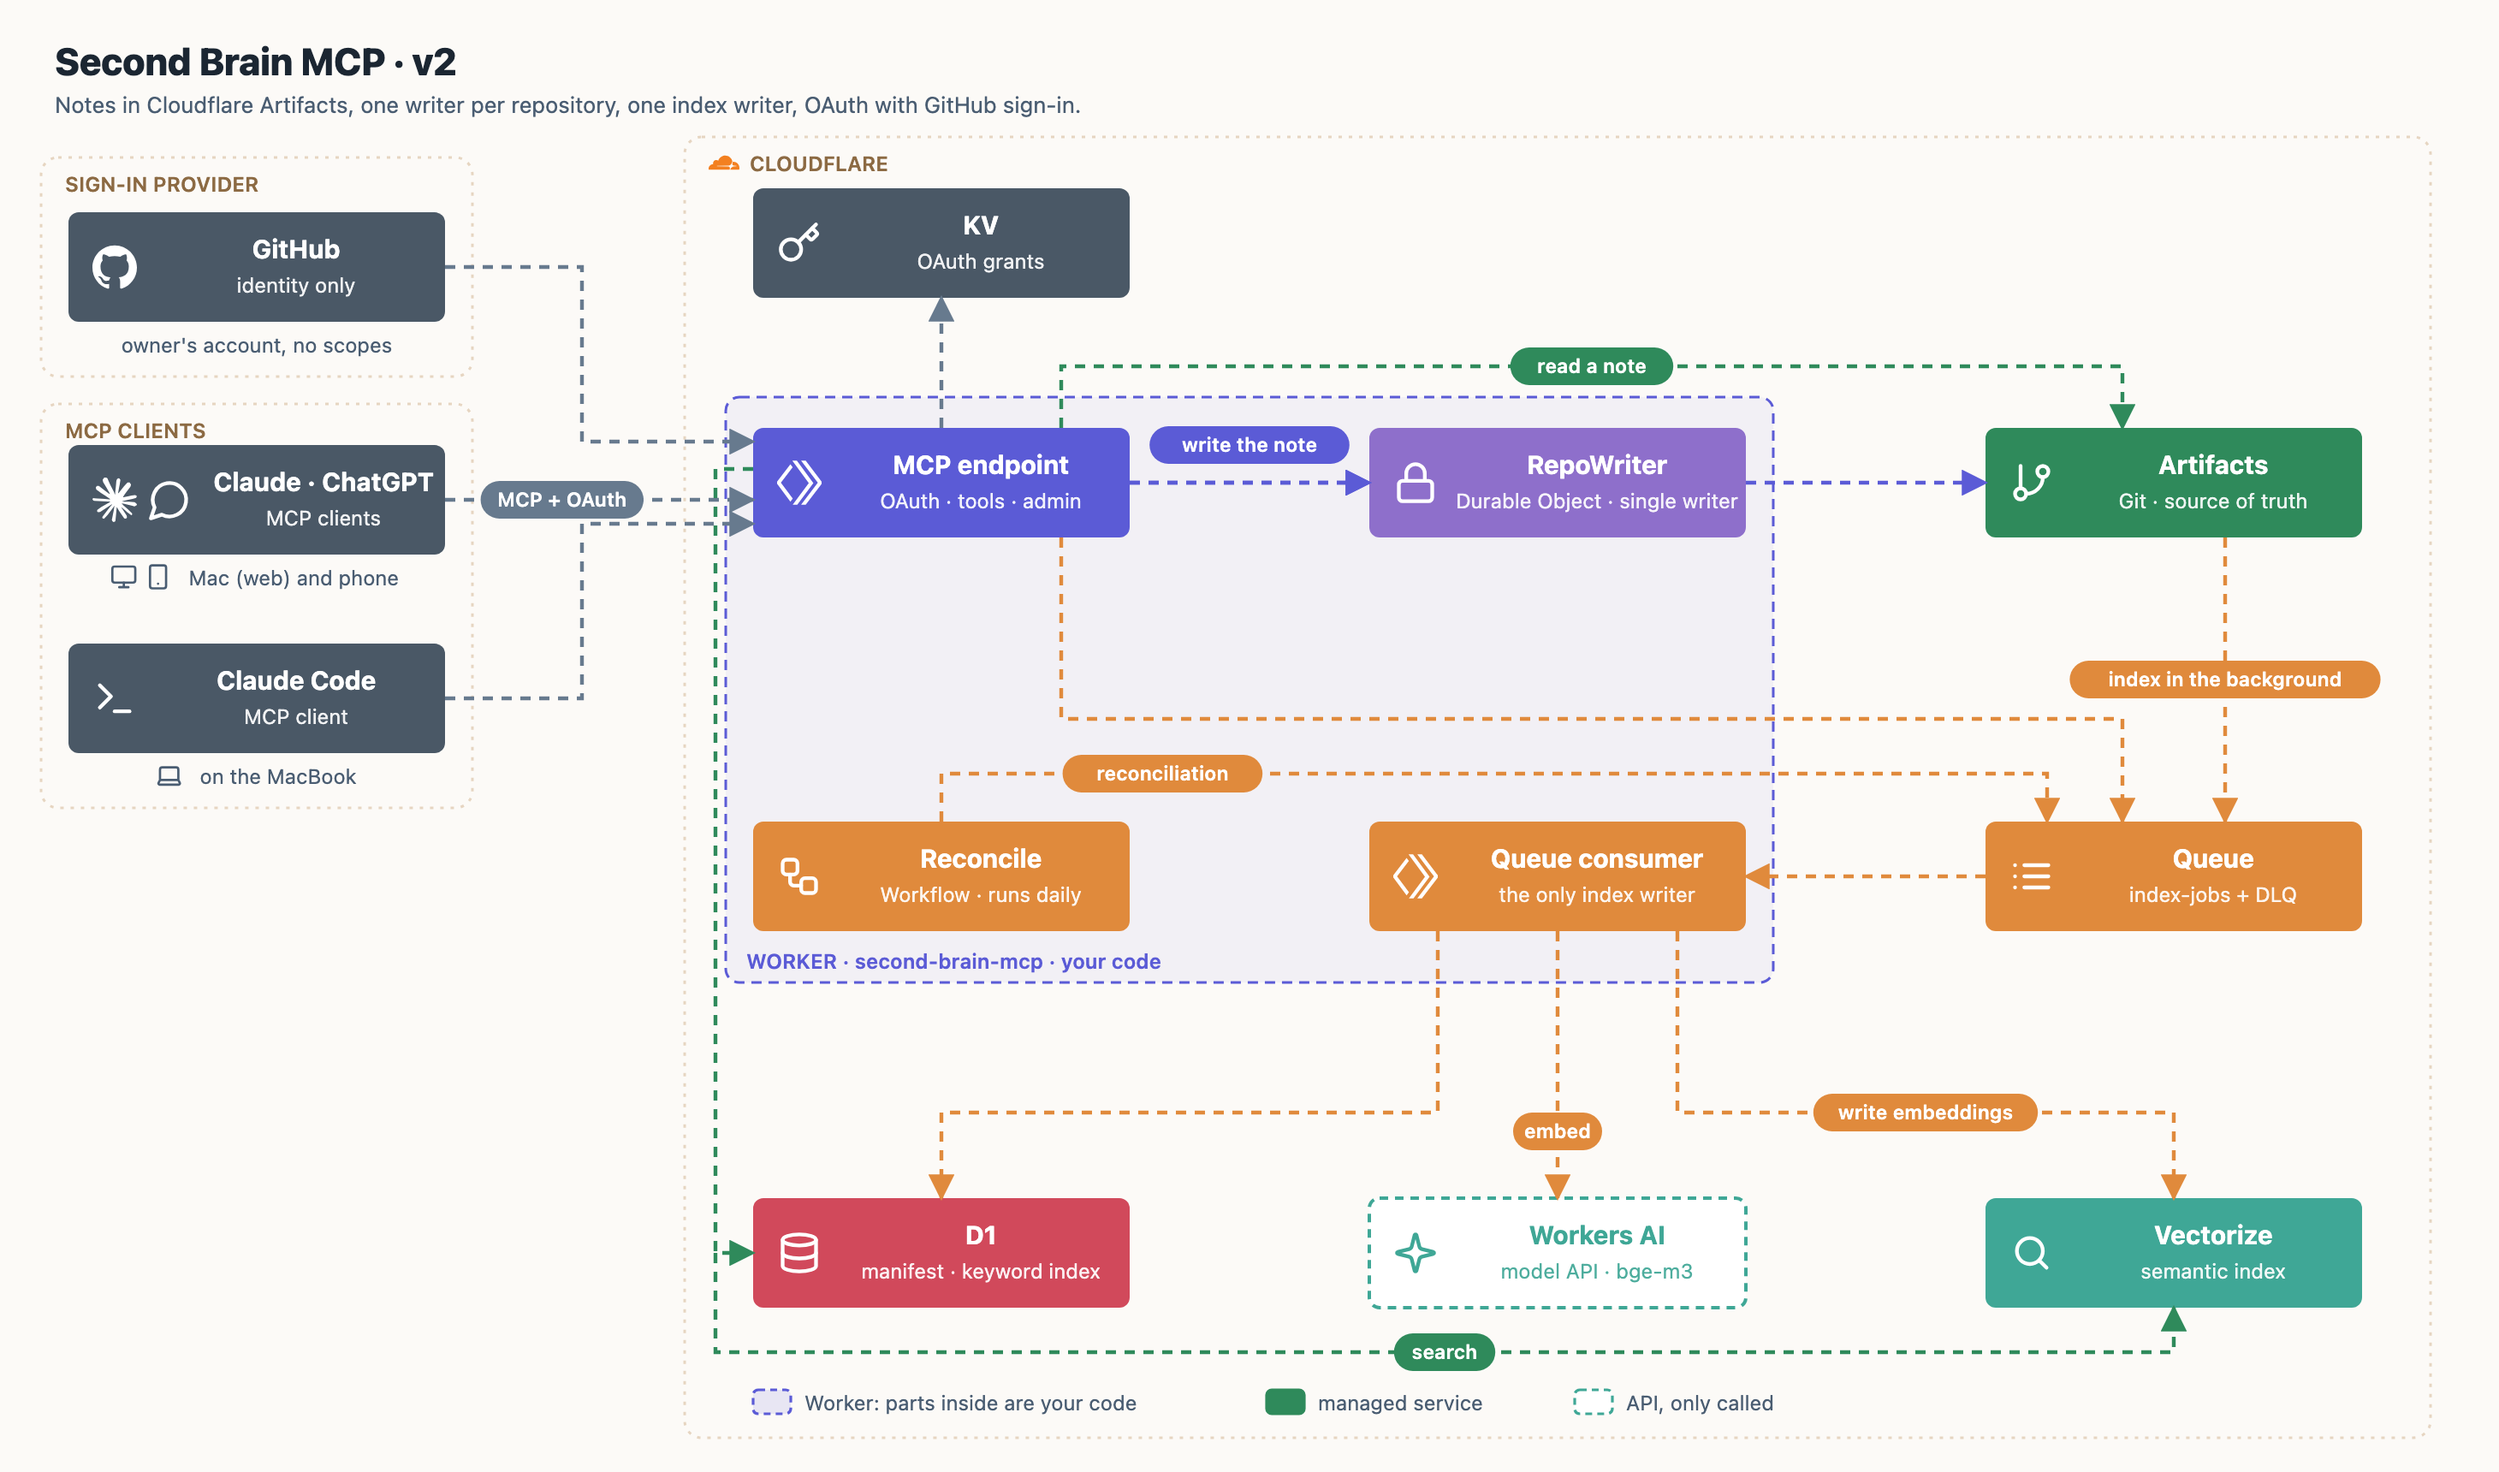
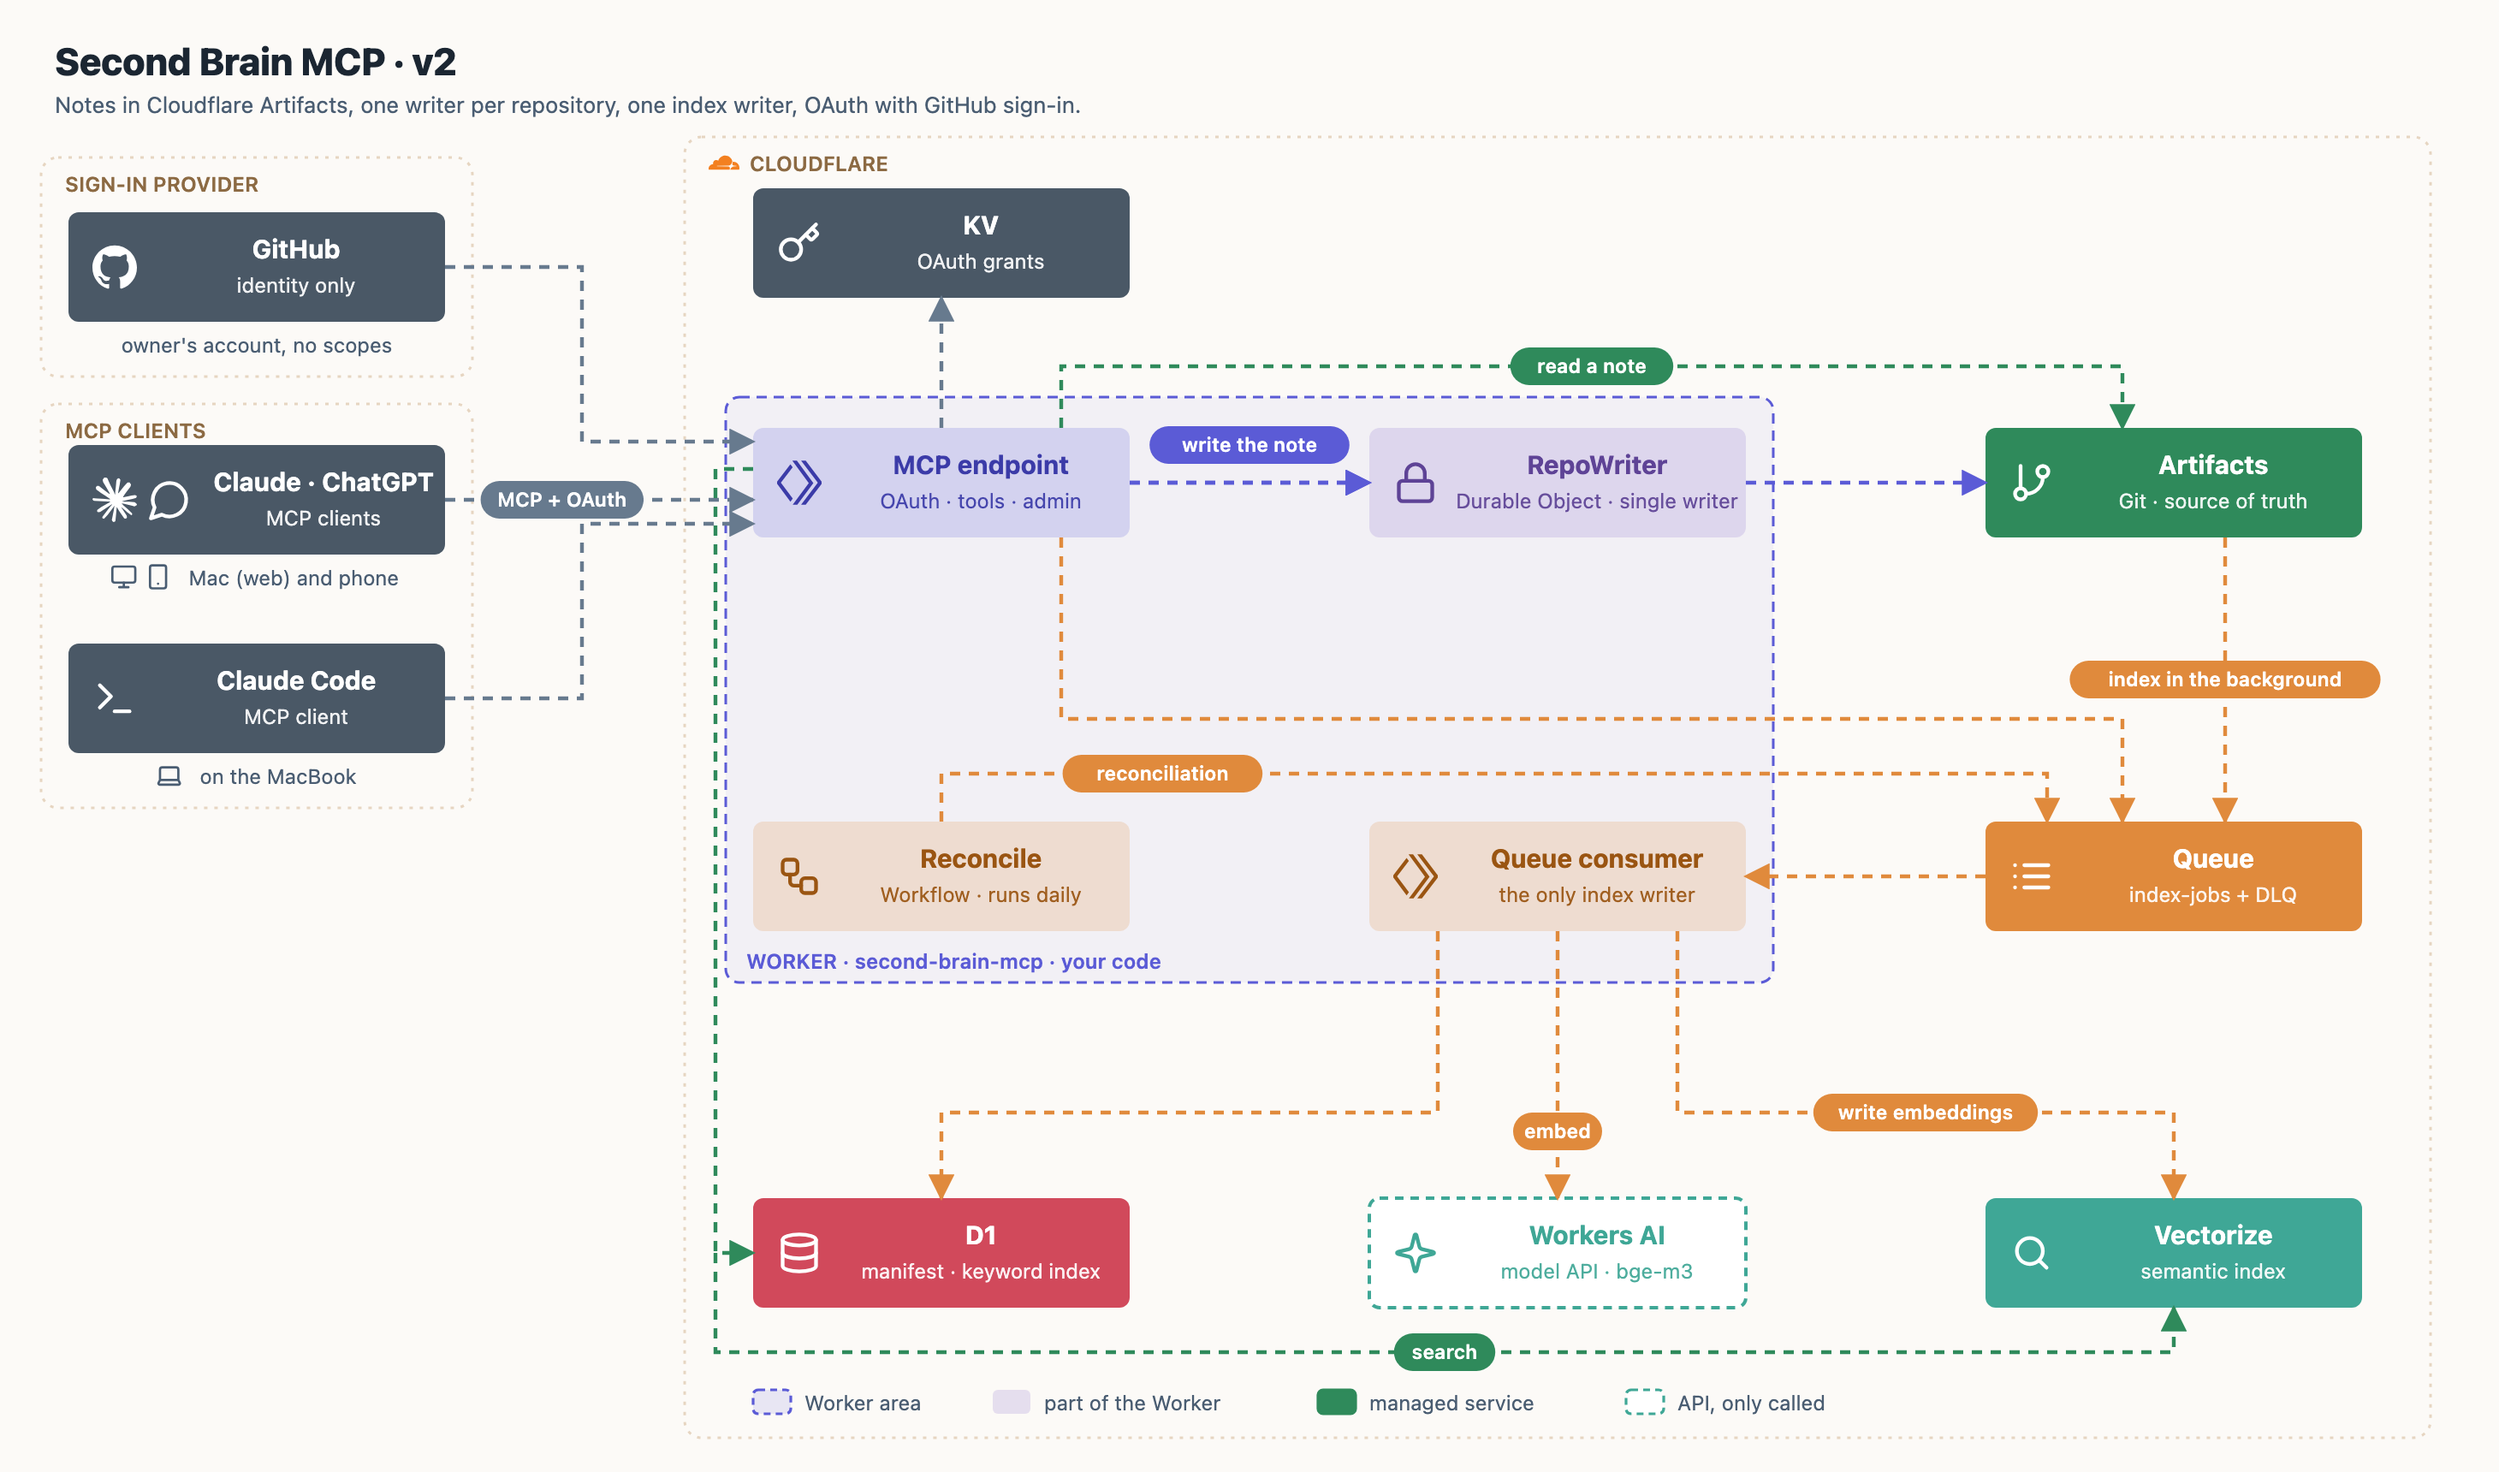
Architecture v2: Worker parts drawn as soft tints, apart from the solid managed services
Claude-Session: https://claude.ai/code/session_0171UdtAm1pRxwuhTFhKDhrM

diff --git a/docs/architecture/draw.py b/docs/architecture/draw.py
@@ -32,16 +32,17 @@ def glyph(name, x, y, size=26, color="#fff"):
     return f'<g transform="translate({x},{y}) scale({k})" fill="none" stroke="{color}" stroke-width="2" stroke-linecap="round" stroke-linejoin="round">{LUCIDE[name]}</g>'
 
 C = dict(indigo="#5B5BD6", purple="#8E6FCB", teal="#3FA796", green="#2F8A5B", red="#D1495B", orange="#E08A3C", slate="#4A5866")
+DARK = dict(indigo="#3B3BA8", purple="#5E4396", teal="#22705F", green="#1F5E3D", red="#9C2C3B", orange="#9A5512", slate="#2E3944")
 NAVY, MUTED, BG, LINE = "#1B2632", "#4A5D72", "#FCFAF7", "#677A8E"
 W, H = 220, 64
 
 def box(x, y, title, sub, color, caption=None, w=W, icons=(), kind="service"):
     """kind: service = managed resource (solid); part = a class inside the Worker (outlined); api = no resource, only called (dashed)."""
-    ink = "#fff" if kind == "service" else C[color]
+    ink = "#fff" if kind == "service" else (DARK[color] if kind == "part" else C[color])
     if kind == "service":
         t = f'<rect x="{x}" y="{y}" width="{w}" height="{H}" rx="6" fill="{C[color]}"/>'
     elif kind == "part":
-        t = f'<rect x="{x}" y="{y}" width="{w}" height="{H}" rx="6" fill="#fff" stroke="{C[color]}" stroke-width="2"/>'
+        t = f'<rect x="{x}" y="{y}" width="{w}" height="{H}" rx="6" fill="{C[color]}" fill-opacity="0.2"/>'
     else:
         t = f'<rect x="{x}" y="{y}" width="{w}" height="{H}" rx="6" fill="#fff" stroke="{C[color]}" stroke-width="2" stroke-dasharray="5 4"/>'
     # icons on the left; text centred in the space that's left
@@ -141,19 +142,19 @@ v2.append(box(X1, 110, "KV", "OAuth grants", "slate", icons=("key",)))
 v2.append('<rect x="424" y="232" width="612" height="342" rx="8" fill="#5B5BD6" fill-opacity="0.06" stroke="#5B5BD6" stroke-width="1.5" stroke-dasharray="6 4"/>'
           '<text x="436" y="566" class="gl" style="fill:#5B5BD6">WORKER · second-brain-mcp · your code</text>')
 # row 1: the write
-v2.append(box(X1, 250, "MCP endpoint", "OAuth · tools · admin", "indigo", icons=("workers",)))
-v2.append(box(X2, 250, "RepoWriter", "Durable Object · single writer", "purple", icons=("lock",)))
+v2.append(box(X1, 250, "MCP endpoint", "OAuth · tools · admin", "indigo", icons=("workers",), kind="part"))
+v2.append(box(X2, 250, "RepoWriter", "Durable Object · single writer", "purple", icons=("lock",), kind="part"))
 v2.append(box(X3, 250, "Artifacts", "Git · source of truth", "green", icons=("branch",)))
 # row 2: indexing
-v2.append(box(X1, 480, "Reconcile", "Workflow · runs daily", "orange", icons=("workflow",)))
-v2.append(box(X2, 480, "Queue consumer", "the only index writer", "orange", icons=("workers",)))
+v2.append(box(X1, 480, "Reconcile", "Workflow · runs daily", "orange", icons=("workflow",), kind="part"))
+v2.append(box(X2, 480, "Queue consumer", "the only index writer", "orange", icons=("workers",), kind="part"))
 v2.append(box(X3, 480, "Queue", "index-jobs + DLQ", "orange", icons=("queue",)))
 # row 3: the indexes, and the model the consumer calls
 v2.append(box(X1, 700, "D1", "manifest · keyword index", "red", icons=("database",)))
 v2.append(box(X2, 700, "Workers AI", "model API · bge-m3", "teal", icons=("sparkles",), kind="api"))
 v2.append(box(X3, 700, "Vectorize", "semantic index", "teal", icons=("search",)))
 lk = lambda x, kind, c, name: (f'<rect x="{x}" y="812" width="22" height="14" rx="3" fill="{c if kind!="api" else "#fff"}"{" fill-opacity=\"0.12\"" if kind=="area" else ""} stroke="{c}" stroke-width="1.6"{" stroke-dasharray=\"4 3\"" if kind in ("api","area") else ""}/>' f'<text x="{x+30}" y="824" class="c">{name}</text>')
-v2.append(lk(440, "area", "#5B5BD6", "Worker: parts inside are your code") + lk(740, "service", C["green"], "managed service") + lk(920, "api", C["teal"], "API, only called"))
+v2.append(lk(440, "area", "#5B5BD6", "Worker area") + f'<rect x="580" y="812" width="22" height="14" rx="3" fill="{C["purple"]}" fill-opacity="0.2"/><text x="610" y="824" class="c">part of the Worker</text>' + lk(770, "service", C["green"], "managed service") + lk(950, "api", C["teal"], "API, only called"))
 # sign-in and MCP calls
 v2.append(arrow([(260, 156), (340, 156), (340, 258), (440, 258)], flow="auth"))
 v2.append(arrow([(260, 292), (440, 292)], "MCP + OAuth", at=0.38, flow="auth"))
